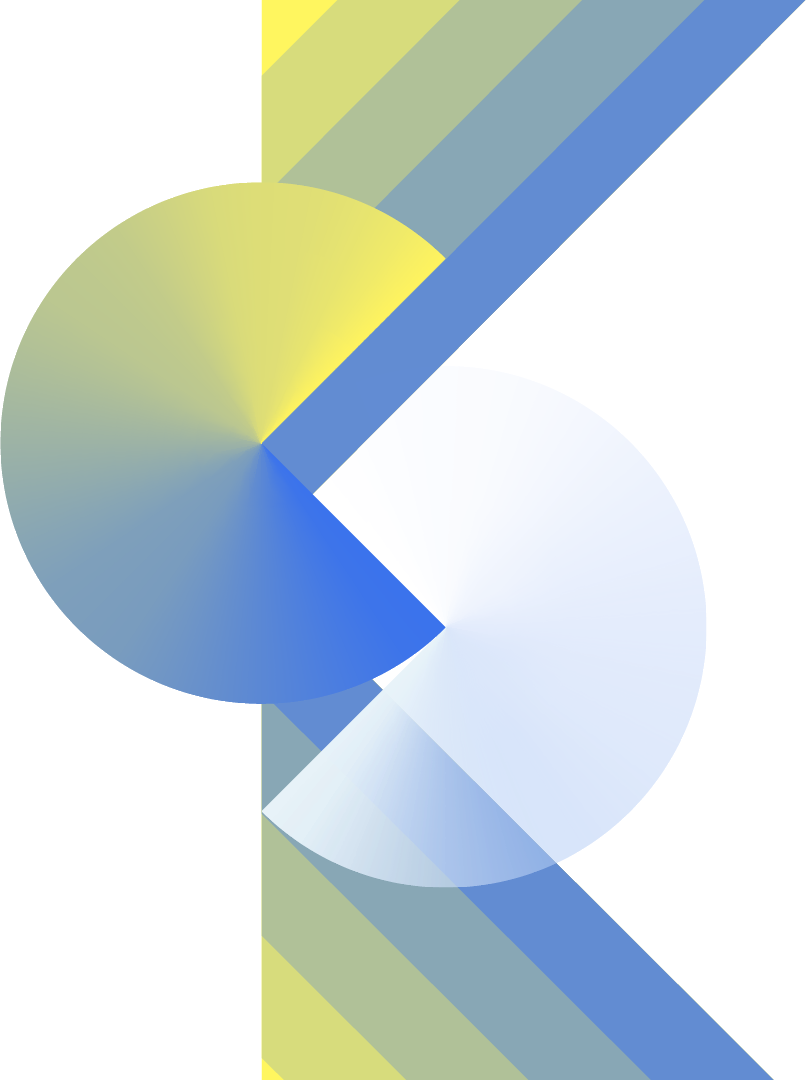
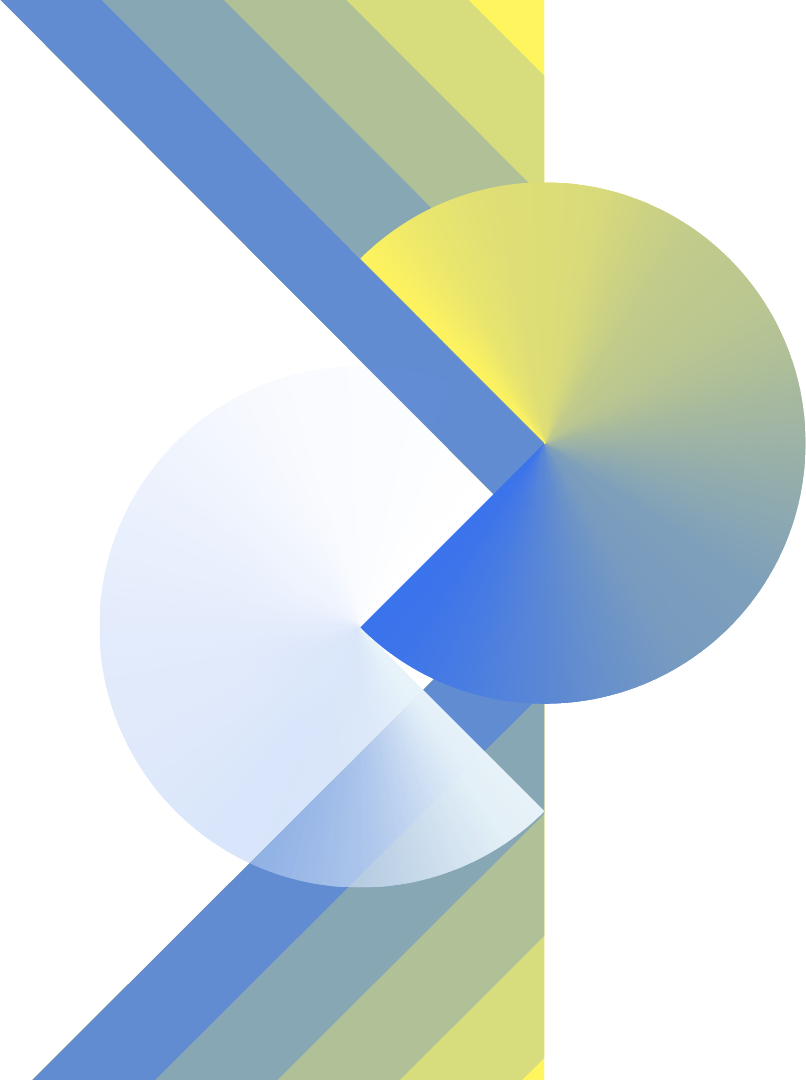
Scoll spy

diff --git a/css/layouts/_offre.scss b/css/layouts/_offre.scss
@@ -1,11 +1,13 @@
 .video {
   height: 100vh;
-  background-image: url('../img/yellow_blue/Asset 2.svg');
+  background-image: url('../img/yellow_blue/Asset 7.png');
   background-size: cover;
   background-repeat: no-repeat;
+  background-position: -60%;
 
   @include media-breakpoint-up(lg) {
     background-size: contain;
+    background-position: 90%;
   }
 
   h1 {
@@ -83,15 +85,57 @@ h2 {
     display: inline;
   }
 
+  .list-group-item-action {
+    color: var(--black);
+    opacity: .3;
+    text-decoration: none;
+    border: none;
+    background: transparent;
+
+    &.active {
+      opacity: 1;
+      text-indent: -1rem;
+
+      &:before {
+        content: '— ';
+        color: var(--tertiary-color);
+      }
+    }
+  }
+
   .content {
     background: url('../img/red_blue/Asset 27.png') no-repeat center/cover var(--primary-color);
     color: var(--white);
     font-weight: 400;
     max-width: 640px;
+    overflow: hidden;
 
-    * {
-      margin: auto;
+    & > div {
+      overflow-y: scroll;
+      position: relative;
+      scrollbar-width: none;
+
+      @include media-breakpoint-up(lg) {
+        mask-image: linear-gradient(to bottom, transparent 0%, black 30%, black 70%, transparent 100%);
+      }
+
+      .advantage-body {
+        margin: auto;
+
+        &.first {
+          padding-top: 100%;
+        }
+
+        &.last {
+          padding-bottom: 100%;
+        }
+
+        @include media-breakpoint-up(lg) {
+          padding: 50% 0;
+        }
+      }
     }
+
   }
 }
 

diff --git a/css/style.scss b/css/style.scss
@@ -19,6 +19,7 @@
 @import "node_modules/bootstrap/scss/nav";
 @import "node_modules/bootstrap/scss/navbar";
 @import "node_modules/bootstrap/scss/transitions";
+@import "node_modules/bootstrap/scss/list-group";
 
 @import "node_modules/bootstrap/scss/helpers";
 
